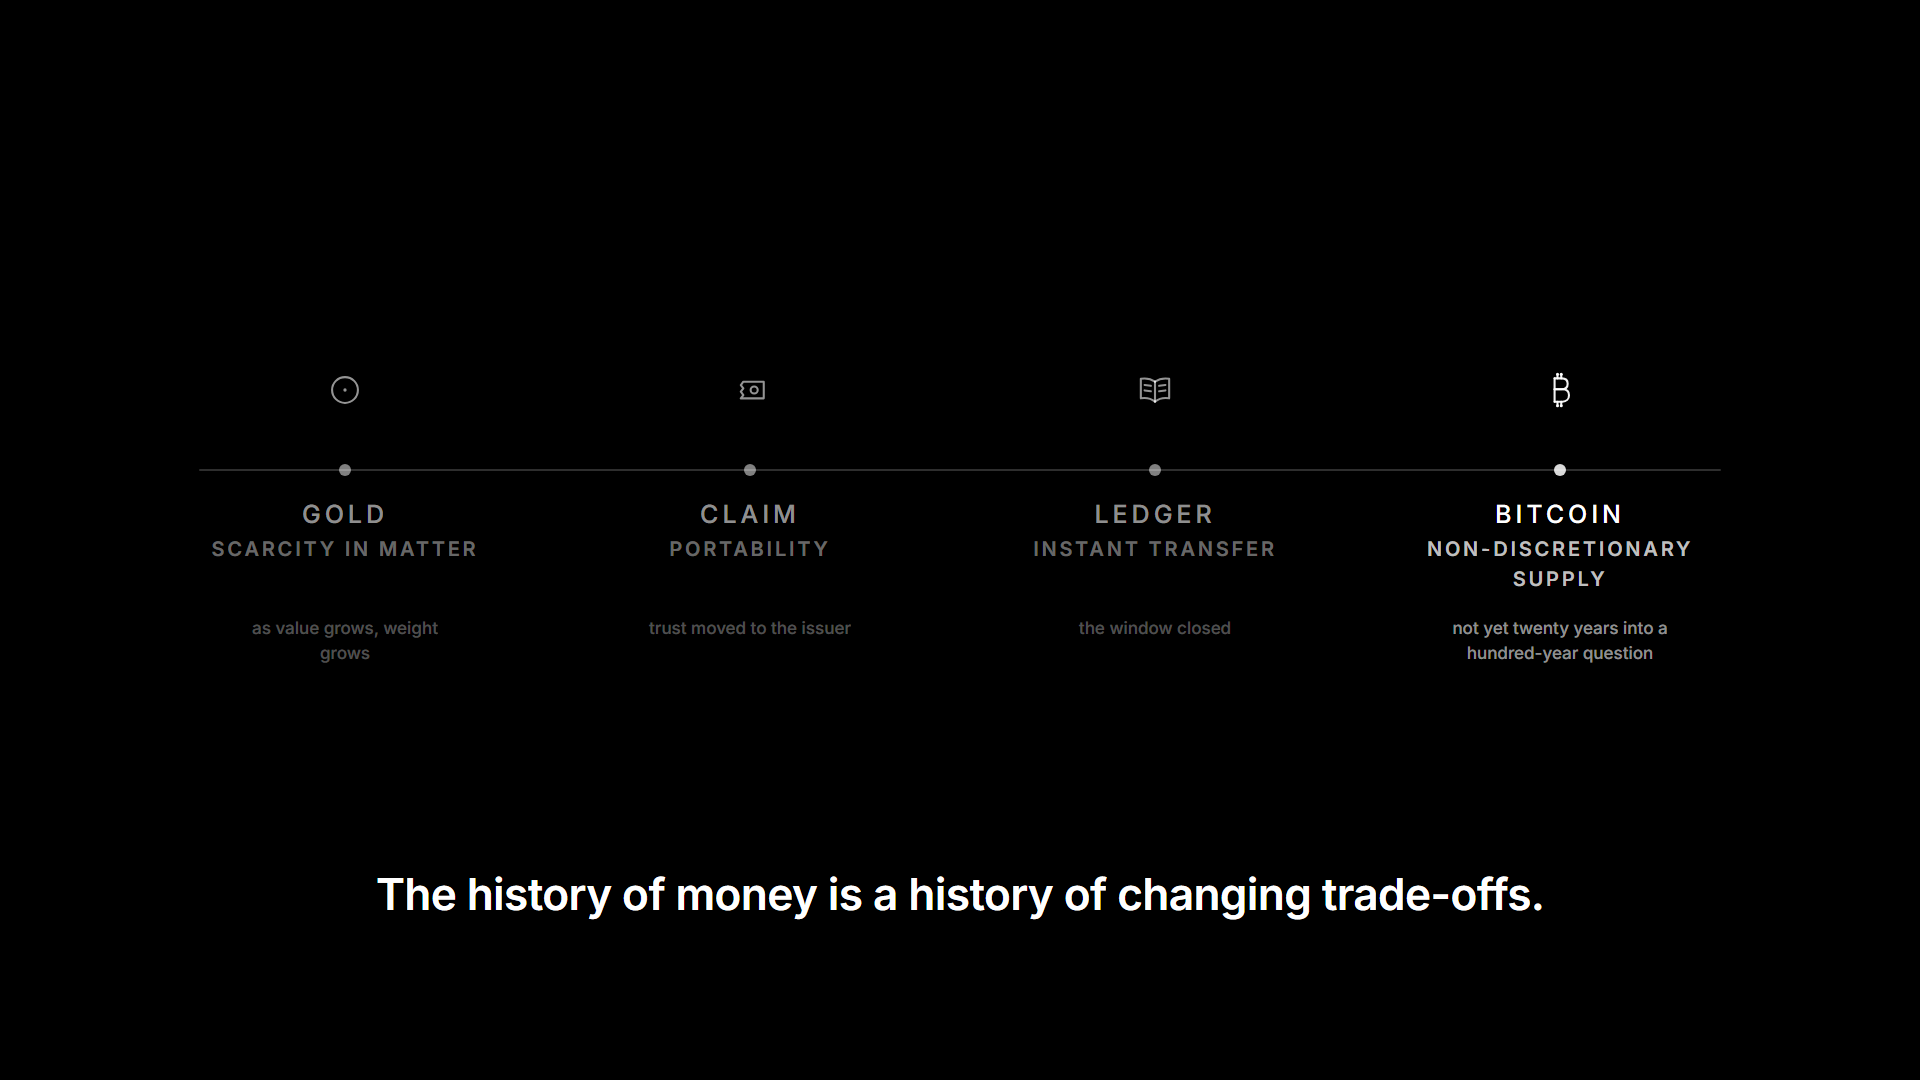
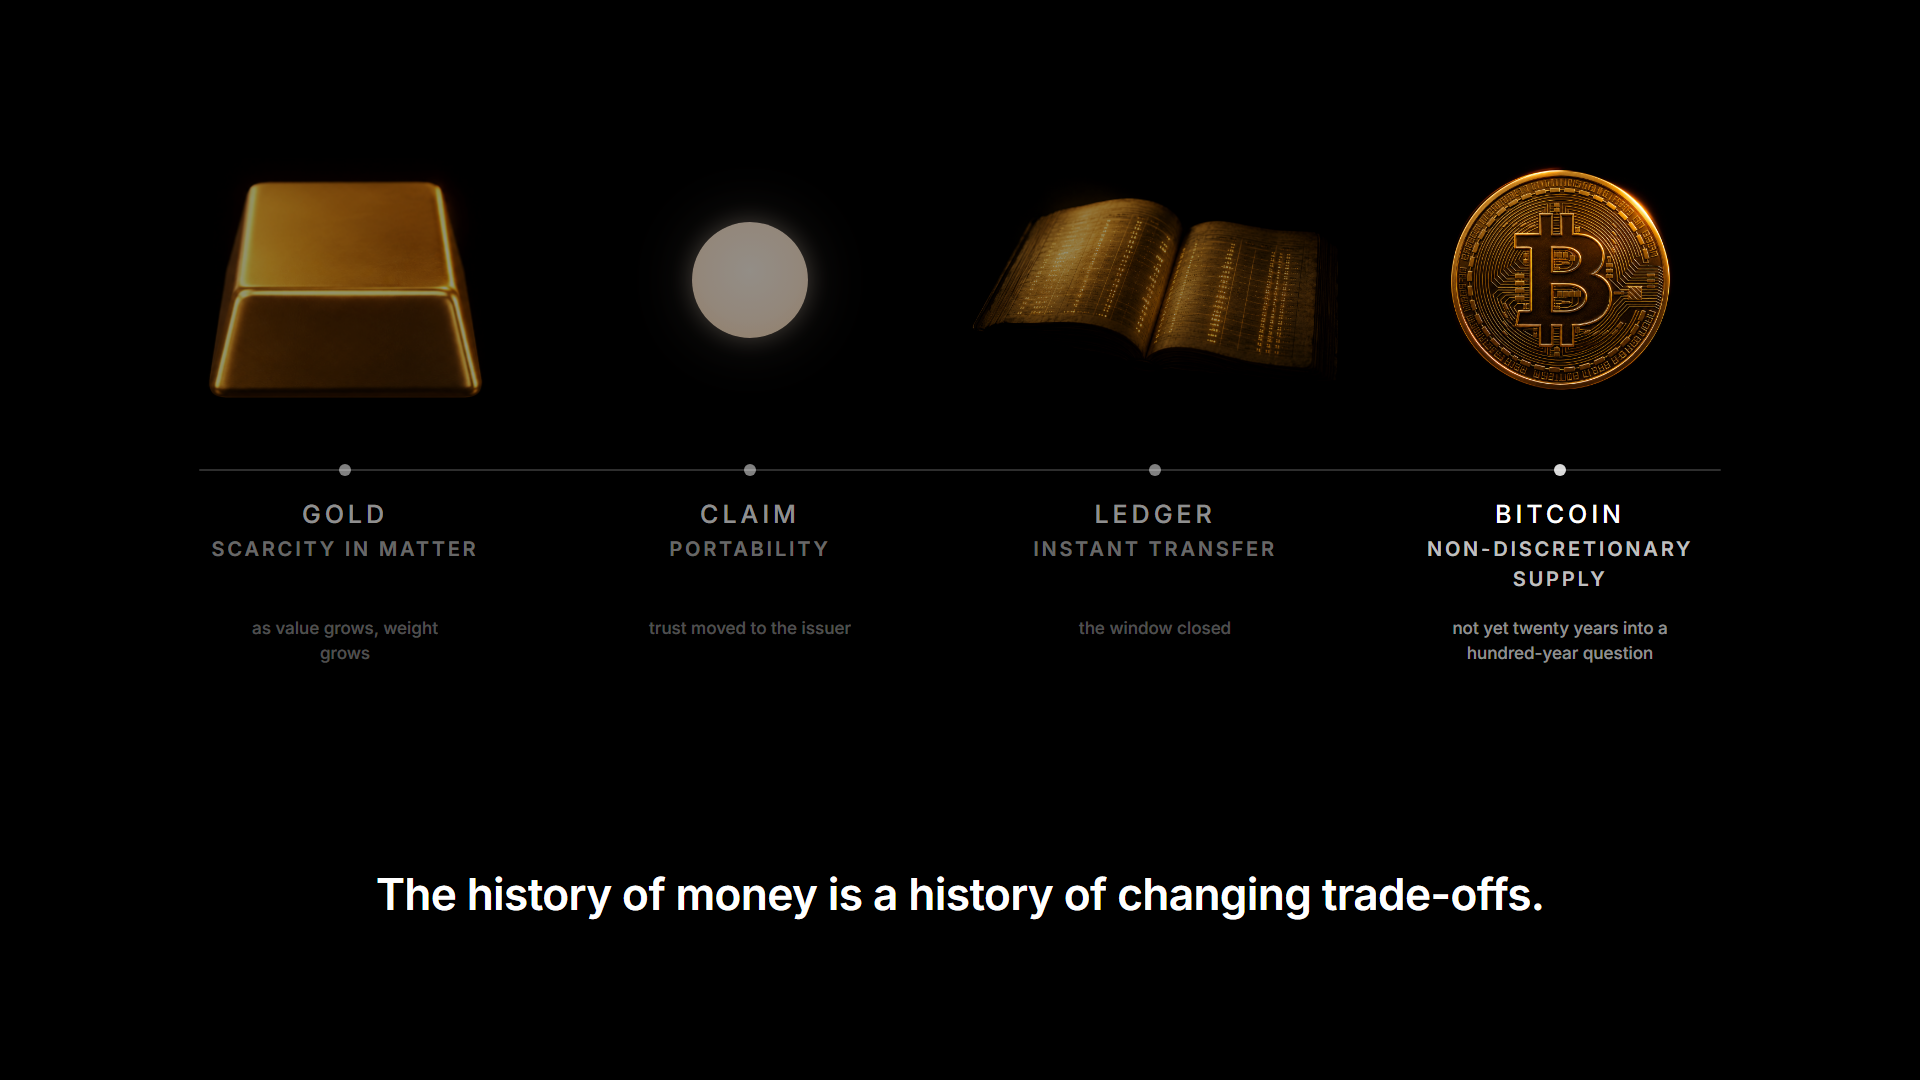
review(act-2): the rails law staged - the object band on S5's rail and S10's strip, the disc at CLAIM

diff --git a/review/act-2/states/sheet.html b/review/act-2/states/sheet.html
@@ -32,14 +32,24 @@
 <p class="note"><b>What this sheet now asks of you is small, and it is stated in plain English at each section.</b>
 Your 31 August rulings are applied: the three selections landed, the five adaptations verified, the elimination restored
 to the legacy pacing (Ruling 3 struck), the vault restaged photographically, and the rails law staged on both rails.
-The cells outlined in orange are the 1 waiting for your verdict; the restored elimination is beneath them for your walk.
-Current classes: <b>1 pending-review · 2 approved-selection · 5 approved-adapt · 22 approved-port · 8 determined · 9 on-file</b>. Every cell is examined at full size — click any image.</p>
+The cells outlined in orange are the 4 waiting for your verdict; the restored elimination is beneath them for your walk.
+Current classes: <b>4 pending-review · 2 approved-selection · 5 approved-adapt · 20 approved-port · 7 determined · 9 on-file</b>. Every cell is examined at full size — click any image.</p>
 <p class="note">The beat maps stand at <b>37 beats</b> — frozen at 33 on the installed scripts and amended to 37 by the
 Ruling 3 strike (S6 = 9, at the legacy pacing). The claim through-line is on stage at <b>S5 b1 · S5 b7 · S6 b8 · S7 b1 · S7 b2</b>
 and returns as S10's CLAIM station, which under the rails law carries the ClaimObject disc itself.</p>
-<h2 class="h--pending-review">VERIFY THE RULED RE-RENDERS · 1 cells</h2>
+<h2 class="h--pending-review">VERIFY THE RULED RE-RENDERS · 4 cells</h2>
 <p class="lang">These cells were re-rendered on your rulings and are waiting for your check. The vault restage (s7-b4) asks one question: did the photographic restage land at the standard of the Act I finals — the vault holding the gold, the certificate traveled outward, one thin dependency line back? The two rails (s5-b5 and s10-b1) and the history line on the strip (s10-b2) ask: do the renders carry the goods as one object band above the line, at one scale across both rails, with the drawn line, station marks, wounds and gain/dependency text beneath exactly as they were?</p>
 <div class="row">
+    <figure data-review="pending-review">
+      <a href="./s5-b5.png" target="_blank"><img src="./s5-b5.png" alt="s5-b5" loading="lazy" /></a>
+      <figcaption>
+        <b>s5-b5</b> · S5 b5 · <span class="frame">S5-F2</span>
+        <span class="pill pill--pending-review">PORT</span>
+        <br>Beat 5 · the metals rise — THE RAILS LAW STAGED. Beneath the line, the legacy record is untouched: the drawn line, the station markers, the labels and the four wounds, with METALS active. Above it, the goods now ride as an object band of their dark-field renders — the same four studies the contender row uses, receded to the record’s own prior step where their stations have fallen, SHELLS still at full voice — and METALS is carried by the newly gated metals render on the band’s shared baseline. The question for your eye: does the band read as one system with S10’s strip, and is the drawn grammar beneath exactly as it was?
+        <br><span class="src">source: 2-04-the-competition-record build 8 + the rails law (31 Aug 2026) — the goods on the object band</span>
+        <br><a href="./s5-b5.png" target="_blank">full size</a>
+      </figcaption>
+    </figure>
     <figure data-review="pending-review">
       <a href="./s7-b4.png" target="_blank"><img src="./s7-b4.png" alt="s7-b4" loading="lazy" /></a>
       <figcaption>
@@ -48,6 +58,26 @@ and returns as S10's CLAIM station, which under the rails law carries the ClaimO
         <br>Beat 4 · THE DETACHMENT, restaged in the film’s real register at your order: the photographic vault holding the gold, the photographic certificate detached and traveled outward across the boundary, and one thin dependency line back — the Act I photograph-plus-line pattern, not a diagram. The drawn circle and the ticket glyph retired to file with the drawn candidates. The question for your eye is the one the brief sets: does this frame sit at the standard of the Act I finals?
         <br><span class="src">source: the presenter’s selection of s7-b4-b’s logic + the r2 brief §3 — the Act I photograph-plus-line pattern</span>
         <br><a href="./s7-b4.png" target="_blank">full size</a>
+      </figcaption>
+    </figure>
+    <figure data-review="pending-review">
+      <a href="./s10-b1.png" target="_blank"><img src="./s10-b1.png" alt="s10-b1" loading="lazy" /></a>
+      <figcaption>
+        <b>s10-b1</b> · S10 b1 · <span class="frame">S10-F1</span>
+        <span class="pill pill--pending-review">PORT</span>
+        <br>Beat 1 · THE STRIP — THE RAILS LAW STAGED. Beneath the line, the rail’s own drawn sentence is unchanged: the 12px marker on the line, the name at +26 in 25px/0.16em, the gain and the dependency where the wound sat, one shared rhythm, no staggered baselines. Above it, the goods ride as the object band: GOLD by its render, LEDGER by ledger_glow, BITCOIN by its render per the C1 ruling — each at the band’s shared height in a box of its own aspect — and the CLAIM station carries the ClaimObject disc itself, the through-line arriving from Scene 7, never a photograph, never an icon. BITCOIN is the live station; the three before it recede to the prior step. The question for your eye: does the band read as one system with S5’s rail, and is the drawn grammar beneath exactly as it was?
+        <br><span class="src">source: EvolutionRail’s grammar (icon grammar §4.5) + the rails law (31 Aug 2026) — the goods on the object band</span>
+        <br><a href="./s10-b1.png" target="_blank">full size</a>
+      </figcaption>
+    </figure>
+    <figure data-review="pending-review">
+      <a href="./s10-b2.png" target="_blank"><img src="./s10-b2.png" alt="s10-b2" loading="lazy" /></a>
+      <figcaption>
+        <b>s10-b2</b> · S10 b2 · <span class="frame">—</span>
+        <span class="pill pill--pending-review">determined</span>
+        <br>Beat 2 · the history line, re-landed on the upgraded strip. The line and its register are unchanged; what you are checking is only that it still sits correctly under the object band the rails law put above the line.
+        <br><span class="src">source: the architecture’s own line, on the beat-1 composition — re-landed on the upgraded strip</span>
+        <br><a href="./s10-b2.png" target="_blank">full size</a>
       </figcaption>
     </figure></div>
 <h2 class="h--restored">THE RESTORED ELIMINATION · one wave per advance · 6 cells</h2>
@@ -189,7 +219,7 @@ and returns as S10's CLAIM station, which under the rails law carries the ClaimO
         <br><a href="./s5f3-proof-1803.png" target="_blank">full size</a>
       </figcaption>
     </figure></div>
-<h2 class="h--approved-port">APPROVED BY PROVENANCE · 16 cells</h2>
+<h2 class="h--approved-port">APPROVED BY PROVENANCE · 14 cells</h2>
 <p class="lang">Ports. Every one of these is a proven legacy treatment transplanted — several of them by mounting the very component the legacy slides run, at the state they run it. They are approved by provenance and carry no review burden: look only if something appears wrong.</p>
 <div class="row">
     <figure data-review="approved-port">
@@ -230,16 +260,6 @@ and returns as S10's CLAIM station, which under the rails law carries the ClaimO
         <br>Beat 4 · IRON falls. Three wounds on the record, the newest at full voice. SHELLS is still standing — its defeat is beat 6’s, and it is the one the scene opened on.
         <br><span class="src">source: 2-04-the-competition-record builds 1–4</span>
         <br><a href="./s5-b4.png" target="_blank">full size</a>
-      </figcaption>
-    </figure>
-    <figure data-review="approved-port">
-      <a href="./s5-b5.png" target="_blank"><img src="./s5-b5.png" alt="s5-b5" loading="lazy" /></a>
-      <figcaption>
-        <b>s5-b5</b> · S5 b5 · <span class="frame">S5-F2</span>
-        <span class="pill pill--approved-port">PORT</span>
-        <br>Beat 5 · the same experiment, and the metals rise out of the wreckage. The register switch the legacy build makes: the goods become entries on a record as the line draws through them, and METALS takes the active state. SHELLS holds its place, undefeated, one beat from the ship.
-        <br><span class="src">source: 2-04-the-competition-record build 8 — the transformation and METALS rising</span>
-        <br><a href="./s5-b5.png" target="_blank">full size</a>
       </figcaption>
     </figure>
     <figure data-review="approved-port">
@@ -341,18 +361,8 @@ and returns as S10's CLAIM station, which under the rails law carries the ClaimO
         <br><span class="src">source: 2-08-the-pattern build 6 — the limitation as its own advance</span>
         <br><a href="./s9-b4.png" target="_blank">full size</a>
       </figcaption>
-    </figure>
-    <figure data-review="approved-port">
-      <a href="./s10-b1.png" target="_blank"><img src="./s10-b1.png" alt="s10-b1" loading="lazy" /></a>
-      <figcaption>
-        <b>s10-b1</b> · S10 b1 · <span class="frame">S10-F1</span>
-        <span class="pill pill--approved-port">PORT</span>
-        <br>Beat 1 · THE STRIP. The rail’s own sentence at four stations: the 40px mark above, the 12px marker centred on the line, the name at +26 in 25px/0.16em, and the second row at +64 on a 218px measure — one shared rhythm, no staggered baselines. Scene 10 puts the gain and the dependency where the wound sat. The CLAIM station is the through-line’s own, arriving here from Scene 7.
-        <br><span class="src">source: EvolutionRail’s grammar — icon grammar §4.5, transcribed from the component and its stylesheet</span>
-        <br><a href="./s10-b1.png" target="_blank">full size</a>
-      </figcaption>
     </figure></div>
-<h2 class="h--determined">DETERMINED · 8 cells</h2>
+<h2 class="h--determined">DETERMINED · 7 cells</h2>
 <p class="lang">Script landings on compositions that are already approved above. No new treatment, no decision — rendered under the full-coverage rule so the sheet is complete.</p>
 <div class="row">
     <figure data-review="determined">
@@ -413,16 +423,6 @@ and returns as S10's CLAIM station, which under the rails law carries the ClaimO
         <br>Beat 5 · the two-question distinction, on cleared black. Ruling 5’s distributed stability content lands here as a spoken distinction with one line on screen — no frame was built for the stability scene, and none is built here.
         <br><span class="src">source: the deck’s sequenced-line treatment; the content is Ruling 5’s distribution</span>
         <br><a href="./s9-b5.png" target="_blank">full size</a>
-      </figcaption>
-    </figure>
-    <figure data-review="determined">
-      <a href="./s10-b2.png" target="_blank"><img src="./s10-b2.png" alt="s10-b2" loading="lazy" /></a>
-      <figcaption>
-        <b>s10-b2</b> · S10 b2 · <span class="frame">—</span>
-        <span class="pill pill--determined">determined</span>
-        <br>Beat 2 · the history line, landing on the strip that just made its case. A script landing on an already-approved frame.
-        <br><span class="src">source: the architecture’s own line, on the beat-1 composition</span>
-        <br><a href="./s10-b2.png" target="_blank">full size</a>
       </figcaption>
     </figure>
     <figure data-review="determined">
@@ -572,13 +572,13 @@ and returns as S10's CLAIM station, which under the rails law carries the ClaimO
         <br><a href="./s5-b4.png" target="_blank">full size</a>
       </figcaption>
     </figure>
-    <figure data-review="approved-port">
+    <figure data-review="pending-review">
       <a href="./s5-b5.png" target="_blank"><img src="./s5-b5.png" alt="s5-b5" loading="lazy" /></a>
       <figcaption>
         <b>s5-b5</b> · S5 b5 · <span class="frame">S5-F2</span>
-        <span class="pill pill--approved-port">PORT</span>
-        <br>Beat 5 · the same experiment, and the metals rise out of the wreckage. The register switch the legacy build makes: the goods become entries on a record as the line draws through them, and METALS takes the active state. SHELLS holds its place, undefeated, one beat from the ship.
-        <br><span class="src">source: 2-04-the-competition-record build 8 — the transformation and METALS rising</span>
+        <span class="pill pill--pending-review">PORT</span>
+        <br>Beat 5 · the metals rise — THE RAILS LAW STAGED. Beneath the line, the legacy record is untouched: the drawn line, the station markers, the labels and the four wounds, with METALS active. Above it, the goods now ride as an object band of their dark-field renders — the same four studies the contender row uses, receded to the record’s own prior step where their stations have fallen, SHELLS still at full voice — and METALS is carried by the newly gated metals render on the band’s shared baseline. The question for your eye: does the band read as one system with S10’s strip, and is the drawn grammar beneath exactly as it was?
+        <br><span class="src">source: 2-04-the-competition-record build 8 + the rails law (31 Aug 2026) — the goods on the object band</span>
         <br><a href="./s5-b5.png" target="_blank">full size</a>
       </figcaption>
     </figure>
@@ -857,23 +857,23 @@ and returns as S10's CLAIM station, which under the rails law carries the ClaimO
       </figcaption>
     </figure></div>
 <h2>Scene 10 — The Trade-Off Keeps Moving (5 beats)</h2><div class="row">
-    <figure data-review="approved-port">
+    <figure data-review="pending-review">
       <a href="./s10-b1.png" target="_blank"><img src="./s10-b1.png" alt="s10-b1" loading="lazy" /></a>
       <figcaption>
         <b>s10-b1</b> · S10 b1 · <span class="frame">S10-F1</span>
-        <span class="pill pill--approved-port">PORT</span>
-        <br>Beat 1 · THE STRIP. The rail’s own sentence at four stations: the 40px mark above, the 12px marker centred on the line, the name at +26 in 25px/0.16em, and the second row at +64 on a 218px measure — one shared rhythm, no staggered baselines. Scene 10 puts the gain and the dependency where the wound sat. The CLAIM station is the through-line’s own, arriving here from Scene 7.
-        <br><span class="src">source: EvolutionRail’s grammar — icon grammar §4.5, transcribed from the component and its stylesheet</span>
+        <span class="pill pill--pending-review">PORT</span>
+        <br>Beat 1 · THE STRIP — THE RAILS LAW STAGED. Beneath the line, the rail’s own drawn sentence is unchanged: the 12px marker on the line, the name at +26 in 25px/0.16em, the gain and the dependency where the wound sat, one shared rhythm, no staggered baselines. Above it, the goods ride as the object band: GOLD by its render, LEDGER by ledger_glow, BITCOIN by its render per the C1 ruling — each at the band’s shared height in a box of its own aspect — and the CLAIM station carries the ClaimObject disc itself, the through-line arriving from Scene 7, never a photograph, never an icon. BITCOIN is the live station; the three before it recede to the prior step. The question for your eye: does the band read as one system with S5’s rail, and is the drawn grammar beneath exactly as it was?
+        <br><span class="src">source: EvolutionRail’s grammar (icon grammar §4.5) + the rails law (31 Aug 2026) — the goods on the object band</span>
         <br><a href="./s10-b1.png" target="_blank">full size</a>
       </figcaption>
     </figure>
-    <figure data-review="determined">
+    <figure data-review="pending-review">
       <a href="./s10-b2.png" target="_blank"><img src="./s10-b2.png" alt="s10-b2" loading="lazy" /></a>
       <figcaption>
         <b>s10-b2</b> · S10 b2 · <span class="frame">—</span>
-        <span class="pill pill--determined">determined</span>
-        <br>Beat 2 · the history line, landing on the strip that just made its case. A script landing on an already-approved frame.
-        <br><span class="src">source: the architecture’s own line, on the beat-1 composition</span>
+        <span class="pill pill--pending-review">determined</span>
+        <br>Beat 2 · the history line, re-landed on the upgraded strip. The line and its register are unchanged; what you are checking is only that it still sits correctly under the object band the rails law put above the line.
+        <br><span class="src">source: the architecture’s own line, on the beat-1 composition — re-landed on the upgraded strip</span>
         <br><a href="./s10-b2.png" target="_blank">full size</a>
       </figcaption>
     </figure>
